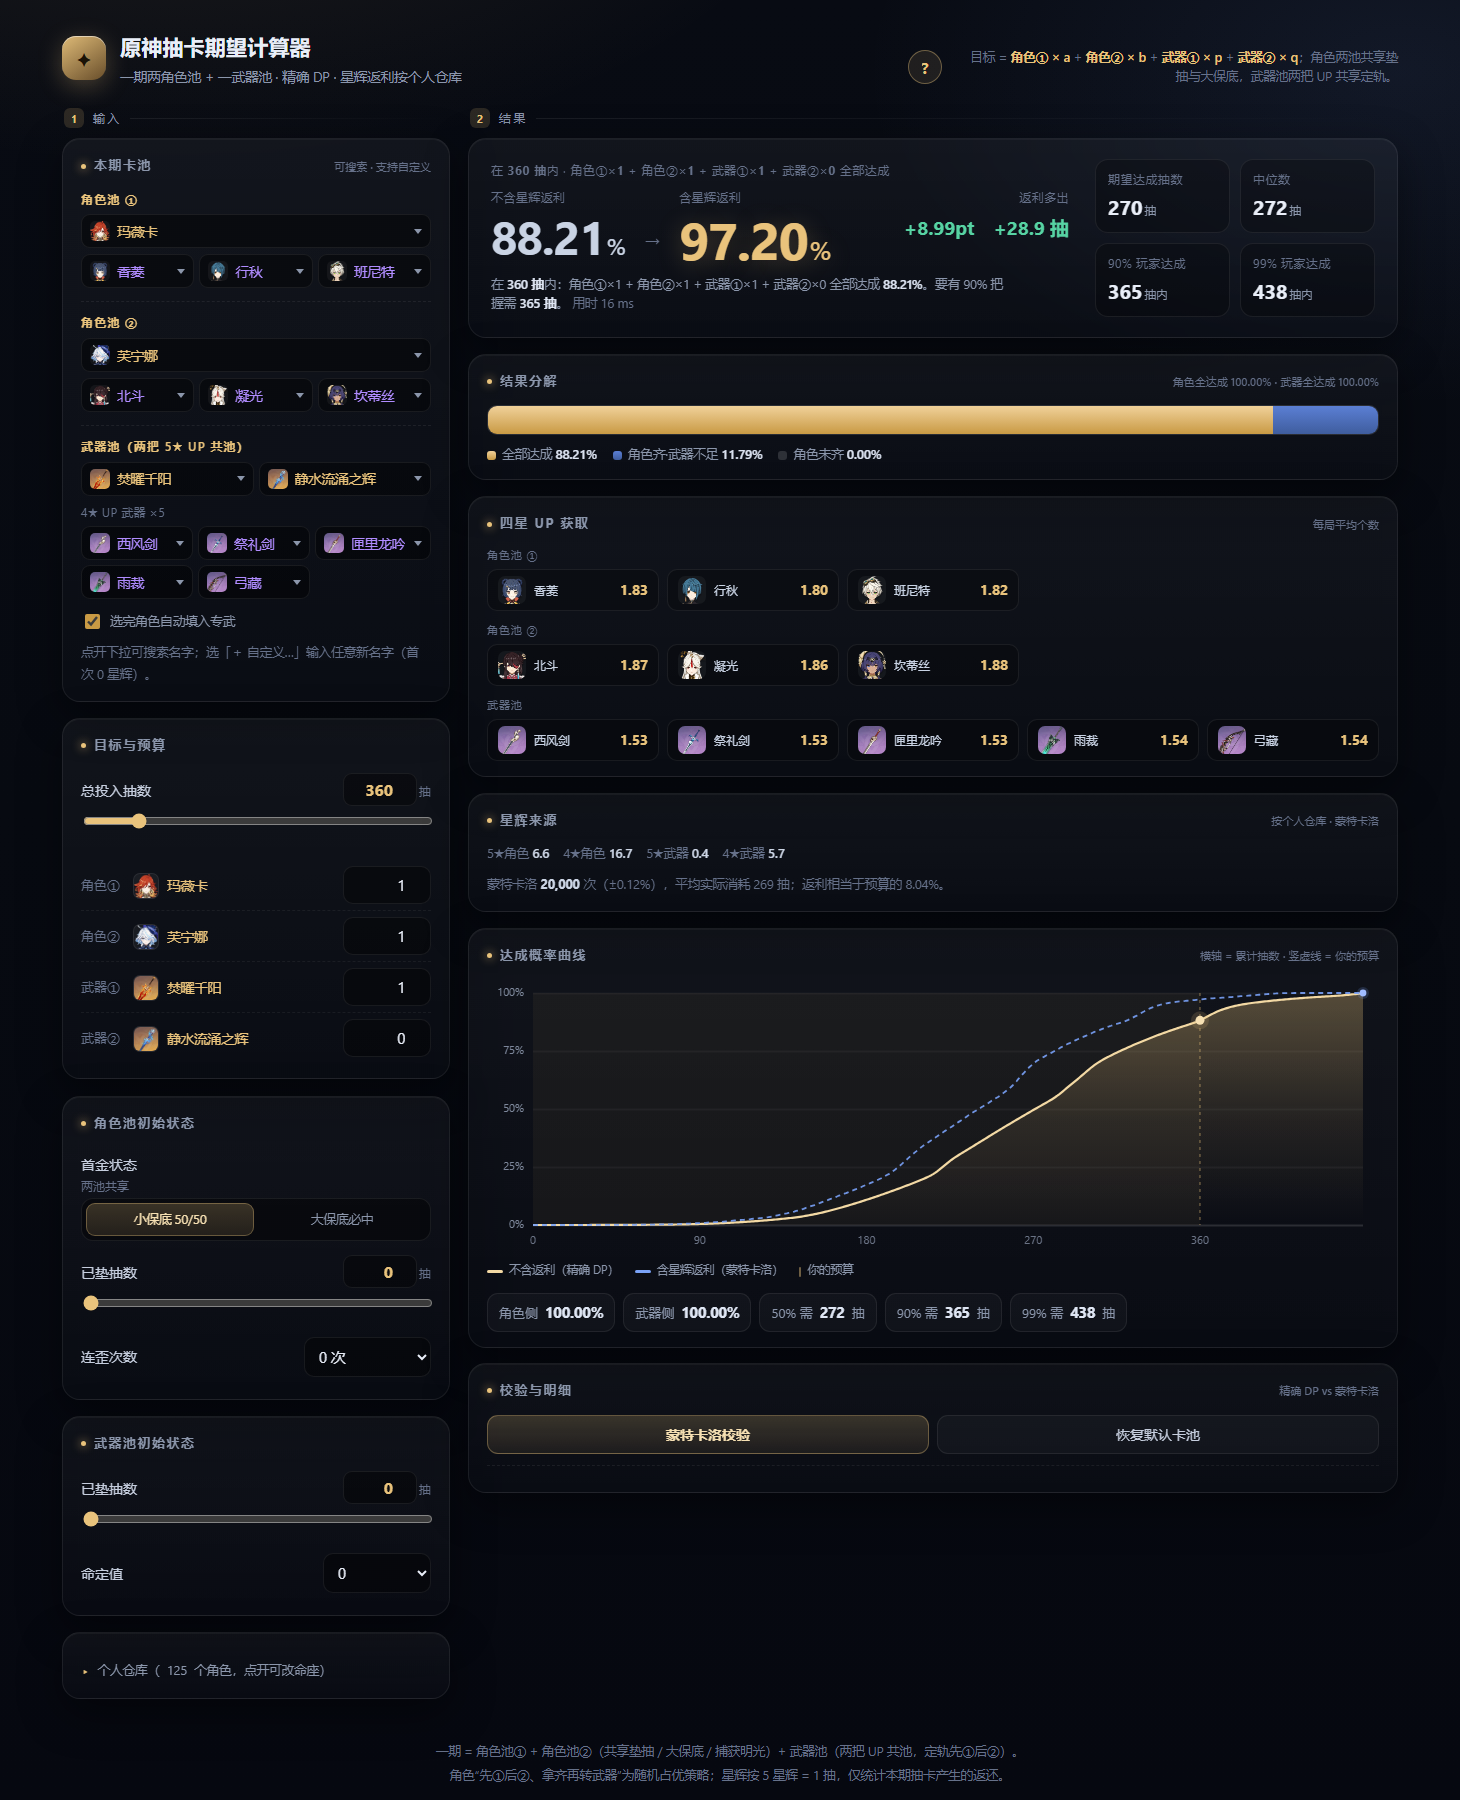
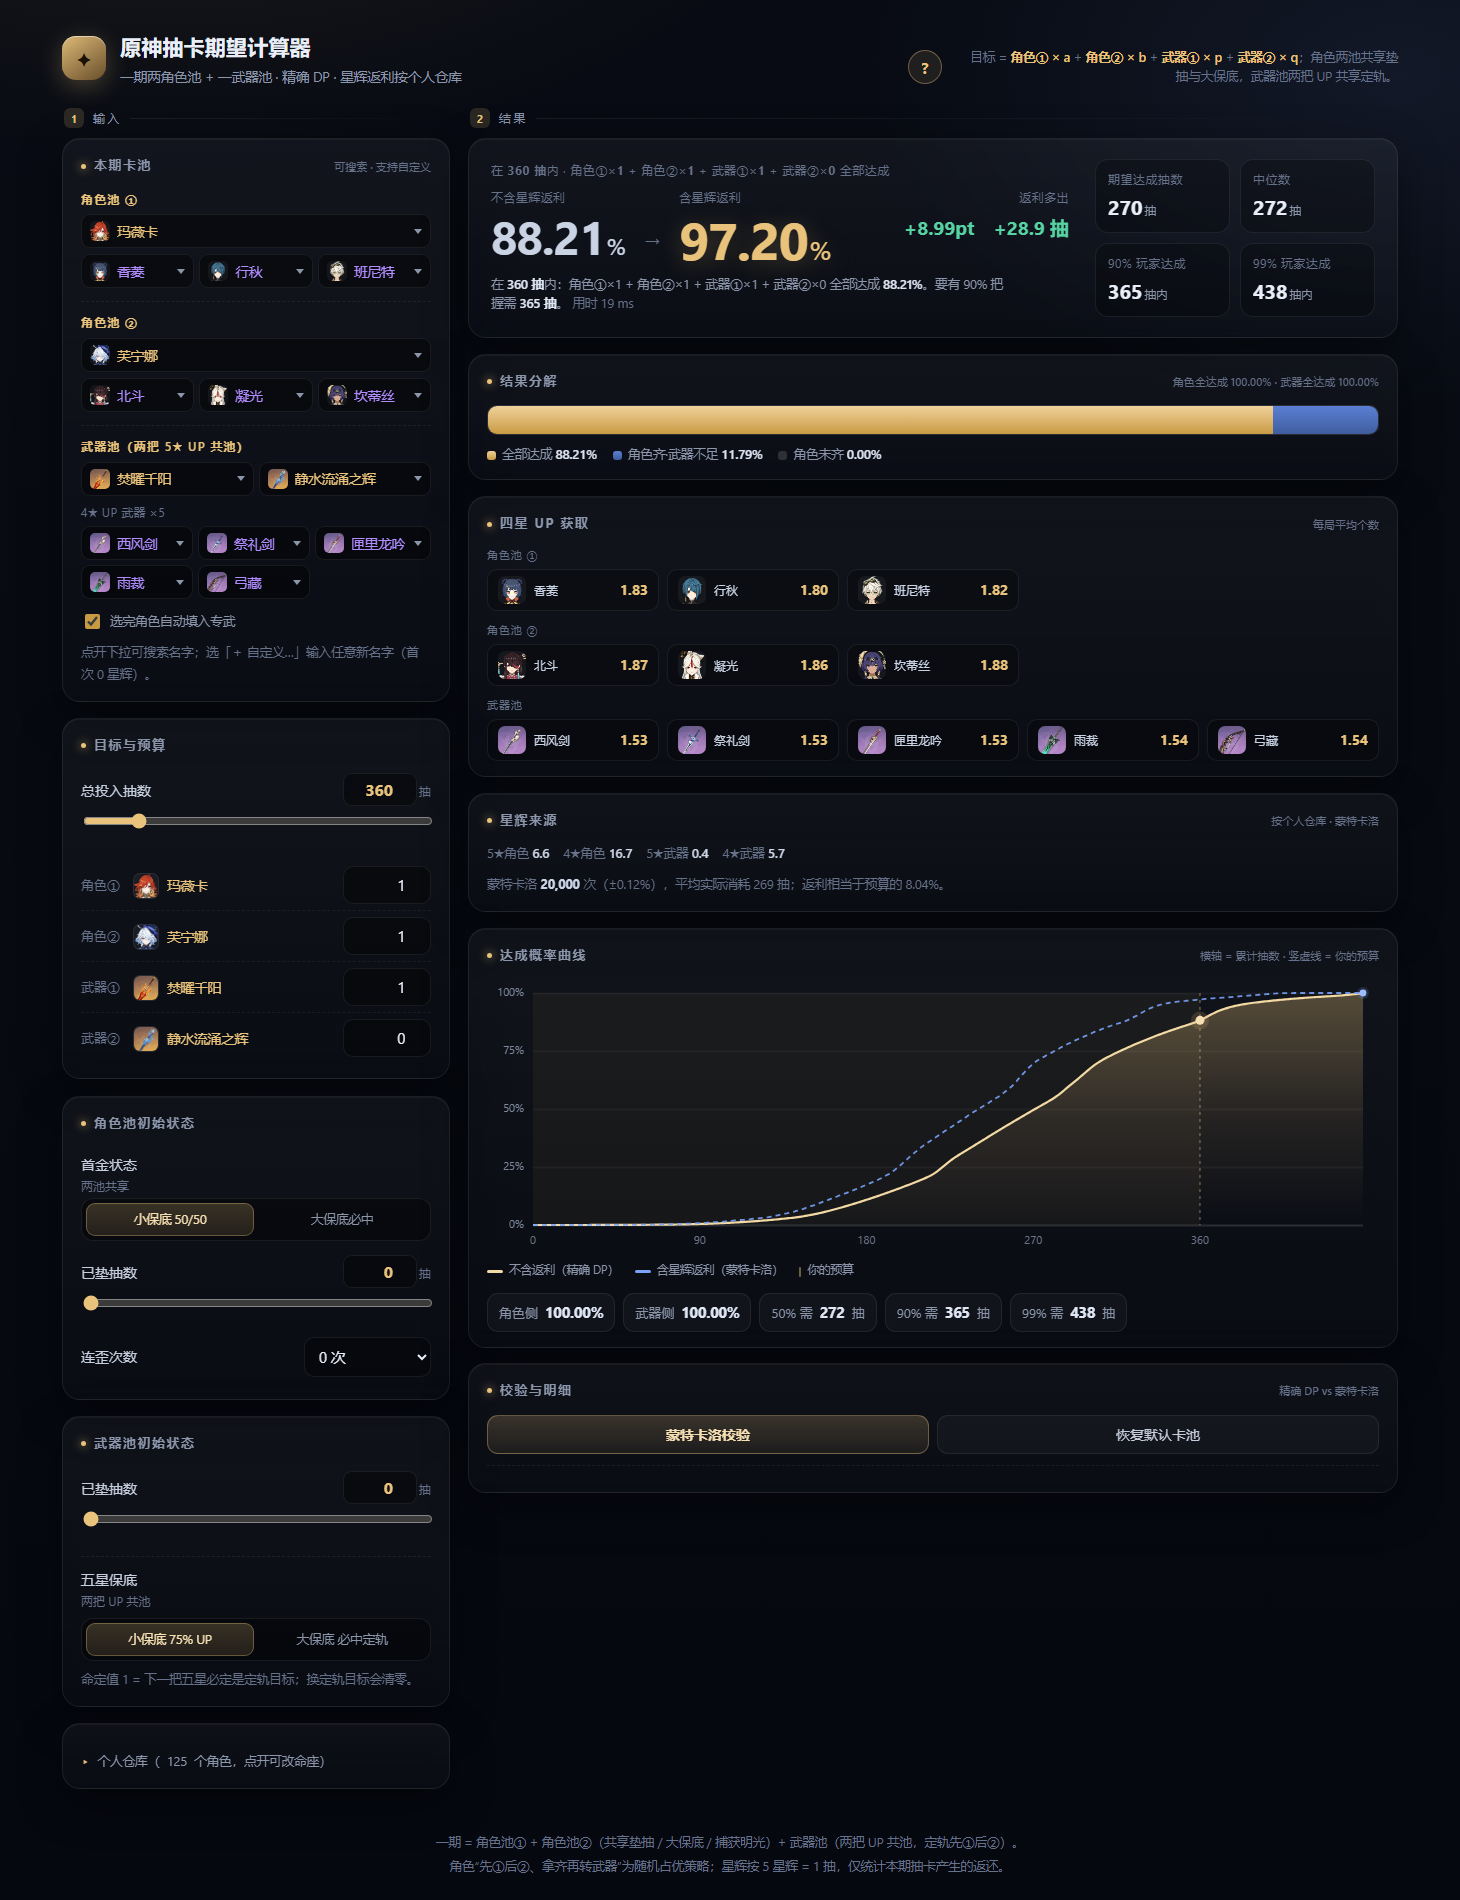
武器池初始状态改为「小保底 / 大保底」二选一
- 原来只有命定值 0/1 下拉，含义不直观
- 改成和角色池一致的 pill：小保底 75% UP / 大保底 必中定轨
- 单选按钮补绑 change 事件（部分浏览器只发 change）

diff --git a/index.html b/index.html
@@ -488,7 +488,7 @@
       <ul>
         <li><b>本期卡池</b>：角色池① / 角色池② 各选 1 个 UP 五星 + 3 个 UP 四星；武器池选 2 把 5★ 和 5 把 4★。点开下拉可<b>搜索名字</b>，候选带头像；选「＋ 自定义…」可输入任意新角色 / 新武器。</li>
         <li><b>目标与预算</b>：总投入抽数（最大 2500）+ 四个目标各要几个（个数不设上限）。每行会显示对应 UP 的头像和名字，填 0 表示不要。</li>
-        <li><b>初始状态</b>：角色池已垫抽数 / 首金小保底还是大保底 / 连歪次数；武器池已垫抽数 / 命定值。</li>
+        <li><b>初始状态</b>：角色池已垫抽数 / 首金小保底还是大保底 / 连歪次数；武器池已垫抽数 / 小保底还是大保底（大保底 = 命定值 1，下一把五星必中定轨）。</li>
         <li><b>个人仓库</b>：角色命座（0–6，-1 = 未拥有）与武器是否拥有。星辉返利完全依赖这份数据，改完可点「导出」保存。</li>
       </ul>
 
@@ -622,10 +622,15 @@
           </div>
           <input type="range" id="weaponPity" min="0" max="79" step="1" value="0">
         </div>
-        <div class="field">
-          <label>命定值</label>
-          <select id="weaponFate"><option value="0">0</option><option value="1">1（必中）</option></select>
+        <div class="field" style="border-top:1px dashed rgba(255,255,255,.07);margin-top:10px;padding-top:12px">
+          <label>五星保底<span class="hint">两把 UP 共池</span></label>
         </div>
+        <div class="pills" style="margin-bottom:4px">
+          <label><input type="radio" name="weaponGuar" value="small" checked><span>小保底 75% UP</span></label>
+          <label><input type="radio" name="weaponGuar" value="big"><span>大保底 必中定轨</span></label>
+        </div>
+        <div class="note" style="margin-top:8px">命定值 1 = 下一把五星必定是定轨目标；换定轨目标会清零。</div>
+        <input type="hidden" id="weaponFate" value="0">
       </section>
 
       <section class="card">
@@ -1130,7 +1135,7 @@
       },
       initW: {
         pity: clamp(Math.round(val('weaponPityN', 0)), 0, 79),
-        fate: parseInt(($('#weaponFate') || {}).value, 10) || 0
+        fate: ($('input[name=weaponGuar]:checked') || {}).value === 'big' ? 1 : 0
       }
     };
   }
@@ -1375,12 +1380,14 @@
   var timer = null;
   function schedule() { clearTimeout(timer); timer = setTimeout(compute, 260); }
   Array.prototype.forEach.call(document.querySelectorAll('input, select'), function (el) {
-    el.addEventListener('input', function () {
+    var onEdit = function () {
       if (el.id === 'pulls') $('#pullsN').value = el.value;
       if (el.id === 'charPity') $('#charPityN').value = el.value;
       if (el.id === 'weaponPity') $('#weaponPityN').value = el.value;
       schedule();
-    });
+    };
+    el.addEventListener('input', onEdit);
+    el.addEventListener('change', onEdit);   // 单选按钮只发 change 的情况
   });
   $('#btnReset').addEventListener('click', function () {
     ddSet('up5A', '玛薇卡'); ddSet('up5B', '芙宁娜');
